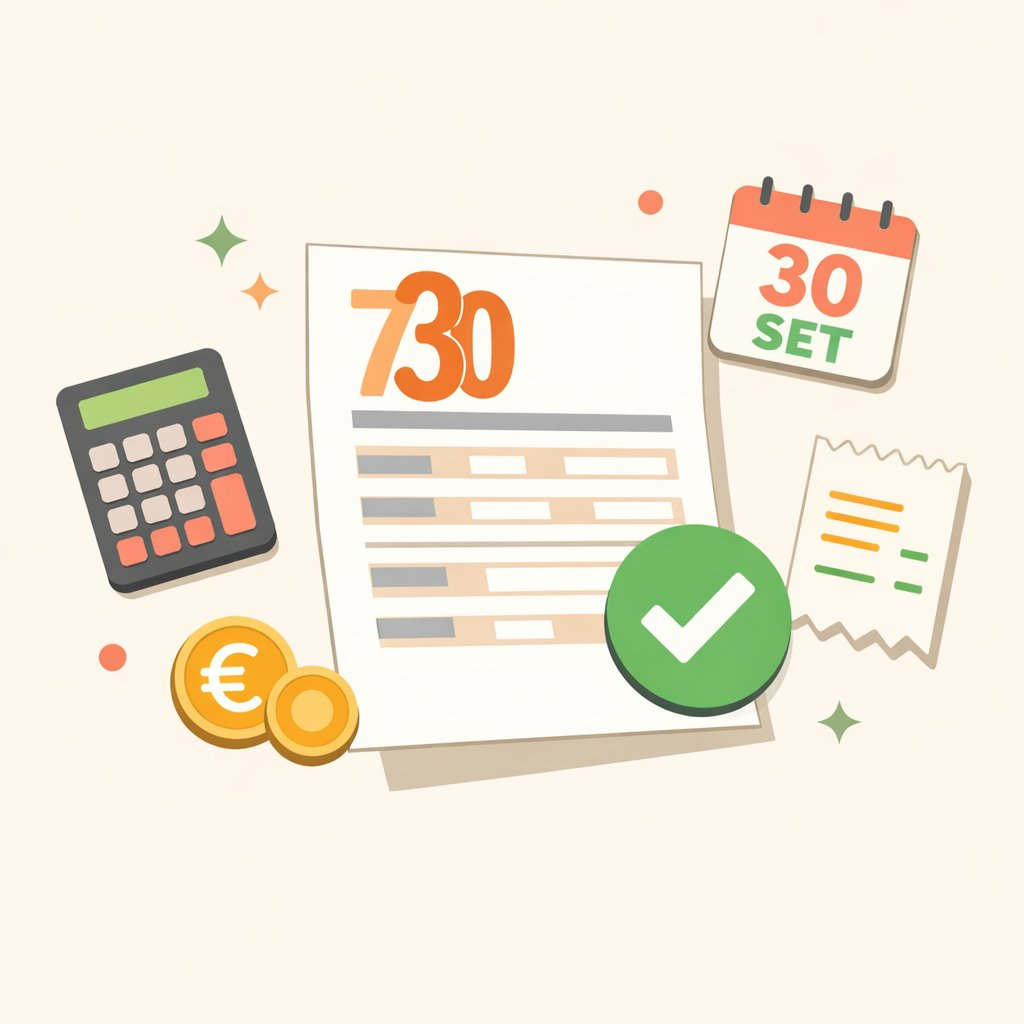
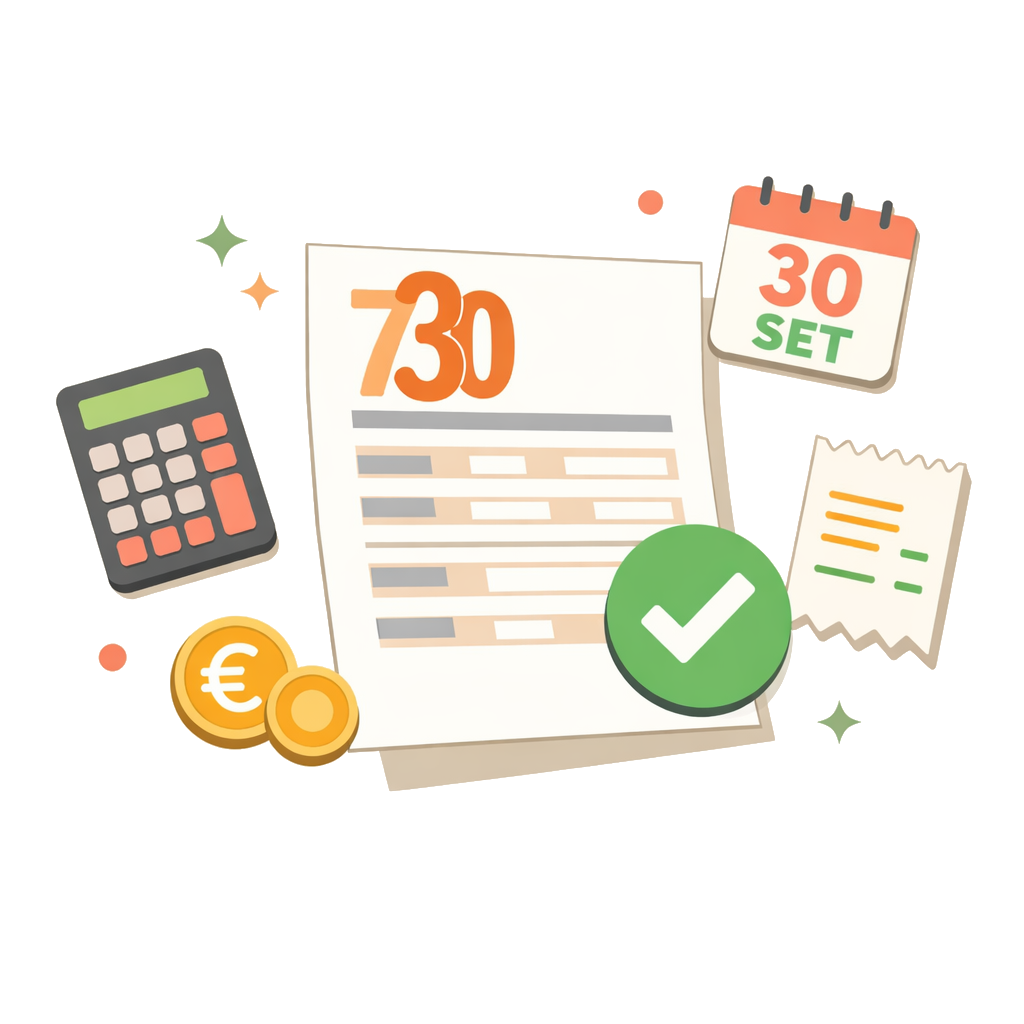
Transparent hero PNGs (uploaded by Mirko) + drop-shadow CSS

diff --git a/app/globals.css b/app/globals.css
@@ -740,11 +740,10 @@ img { max-width: 100%; display: block }
 .guide-hero-img {
   display:flex; align-items:center; justify-content:center;
   position:relative; min-height:360px;
-  border-radius:20px; overflow:hidden;
-  box-shadow:0 8px 30px rgba(0,0,0,.10), 0 2px 8px rgba(0,0,0,.06);
 }
 .guide-hero-img img {
-  width:100%; height:100%; object-fit:cover;
+  width:100%; height:100%; object-fit:contain;
+  filter:drop-shadow(0 8px 16px rgba(0,0,0,.15));
 }
 .guide-hero-img span {
   font-family:var(--font-display), Georgia, serif;
